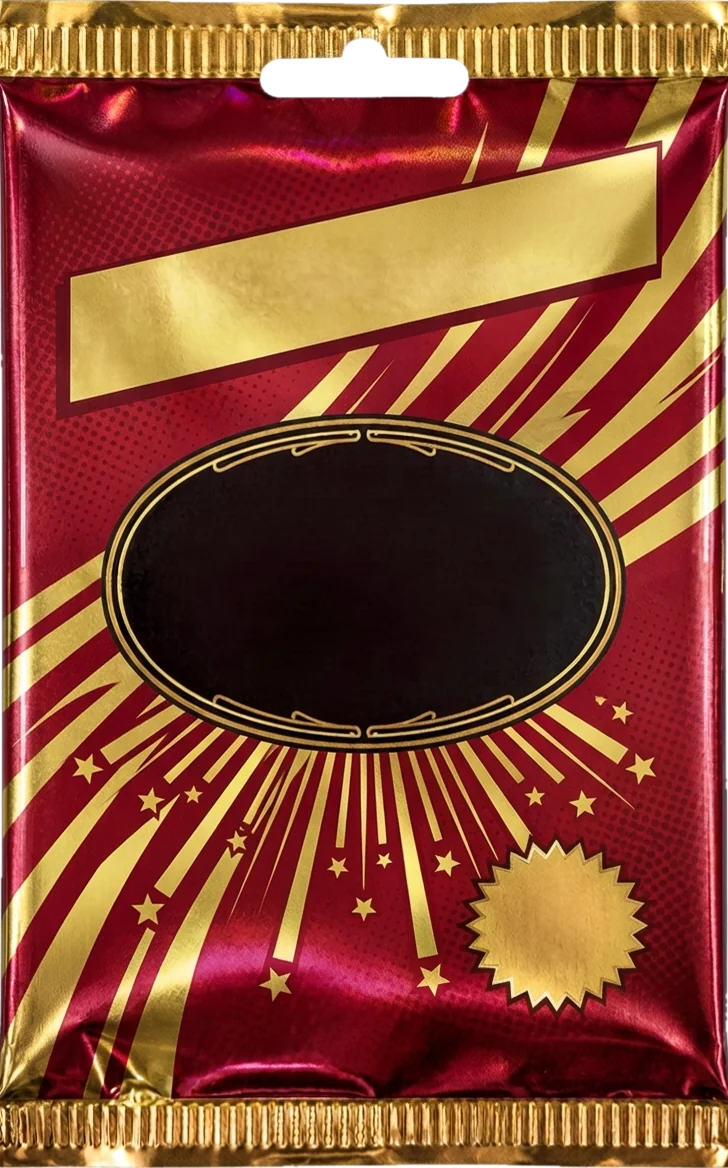
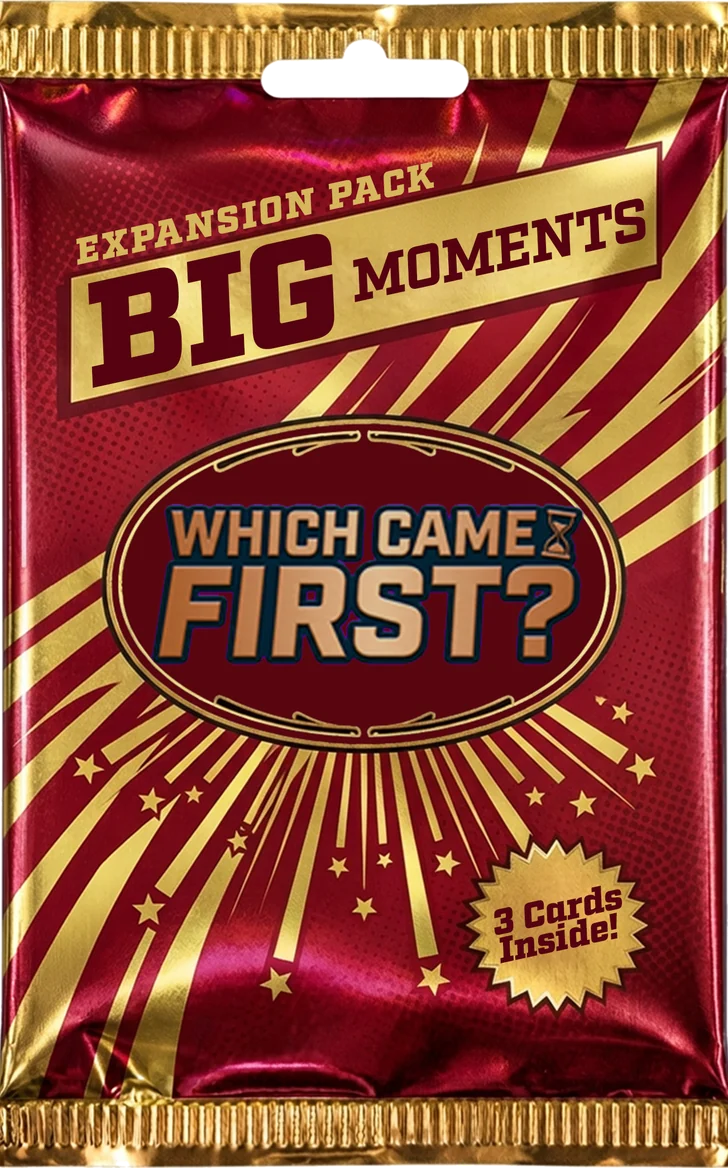
Which Came First? packs: Eric's own Big Moments wrapper
Replaces the Headline Cards wrapper with Eric's red and gold foil
"Expansion Pack / BIG MOMENTS" design. Its words, logo and "3 Cards
Inside!" starburst are part of the art, so the game draws nothing on
it. A slightly shorter tear strip keeps the rip above "EXPANSION PACK".

Claude-Session: https://claude.ai/code/session_011EyvFuYywofgN3DNw7vfmE

diff --git a/packs/index.html b/packs/index.html
@@ -318,7 +318,7 @@ const PK={
   all:{logo:[364,590,420],stk:[606,1004,84,-.18,1,'#1d1626'],hole:1},
   inv:{hole:1,strip:.36},  // Eric's own design, foil: words and logo are in the art; shorter tear strip so the rip stays above the logo
   exp:{hole:1,cello:1},  // Eric's own design: words, logo and sticker are in the art
-  big:{logo:[367,586,390],brand:{t:['HEADLINE','CARDS'],x:368,y:272,r:-.18,s:72,c:'#6e0b1a'},stk:[553,921,80,-.1,0,'#5a0a14'],hole:1},
+  big:{hole:1,strip:.35},  // Eric's own design, foil: words and logo are in the art; shorter tear strip keeps the rip above EXPANSION PACK
   won:{logo:[364,586,320],brand:{t:['GALLERY GUILD'],x:364,y:998,r:0,s:44,c:'#2a0d3d'},stk:[598,898,82,.14,1,'#2a0d3d'],hole:1},
   chain:{logo:[364,593,345],stk:[600,1000,92,-.18,1,'#1d1626']}};
 const inTheme=(c,th)=>th=='all'||c.th==th;
